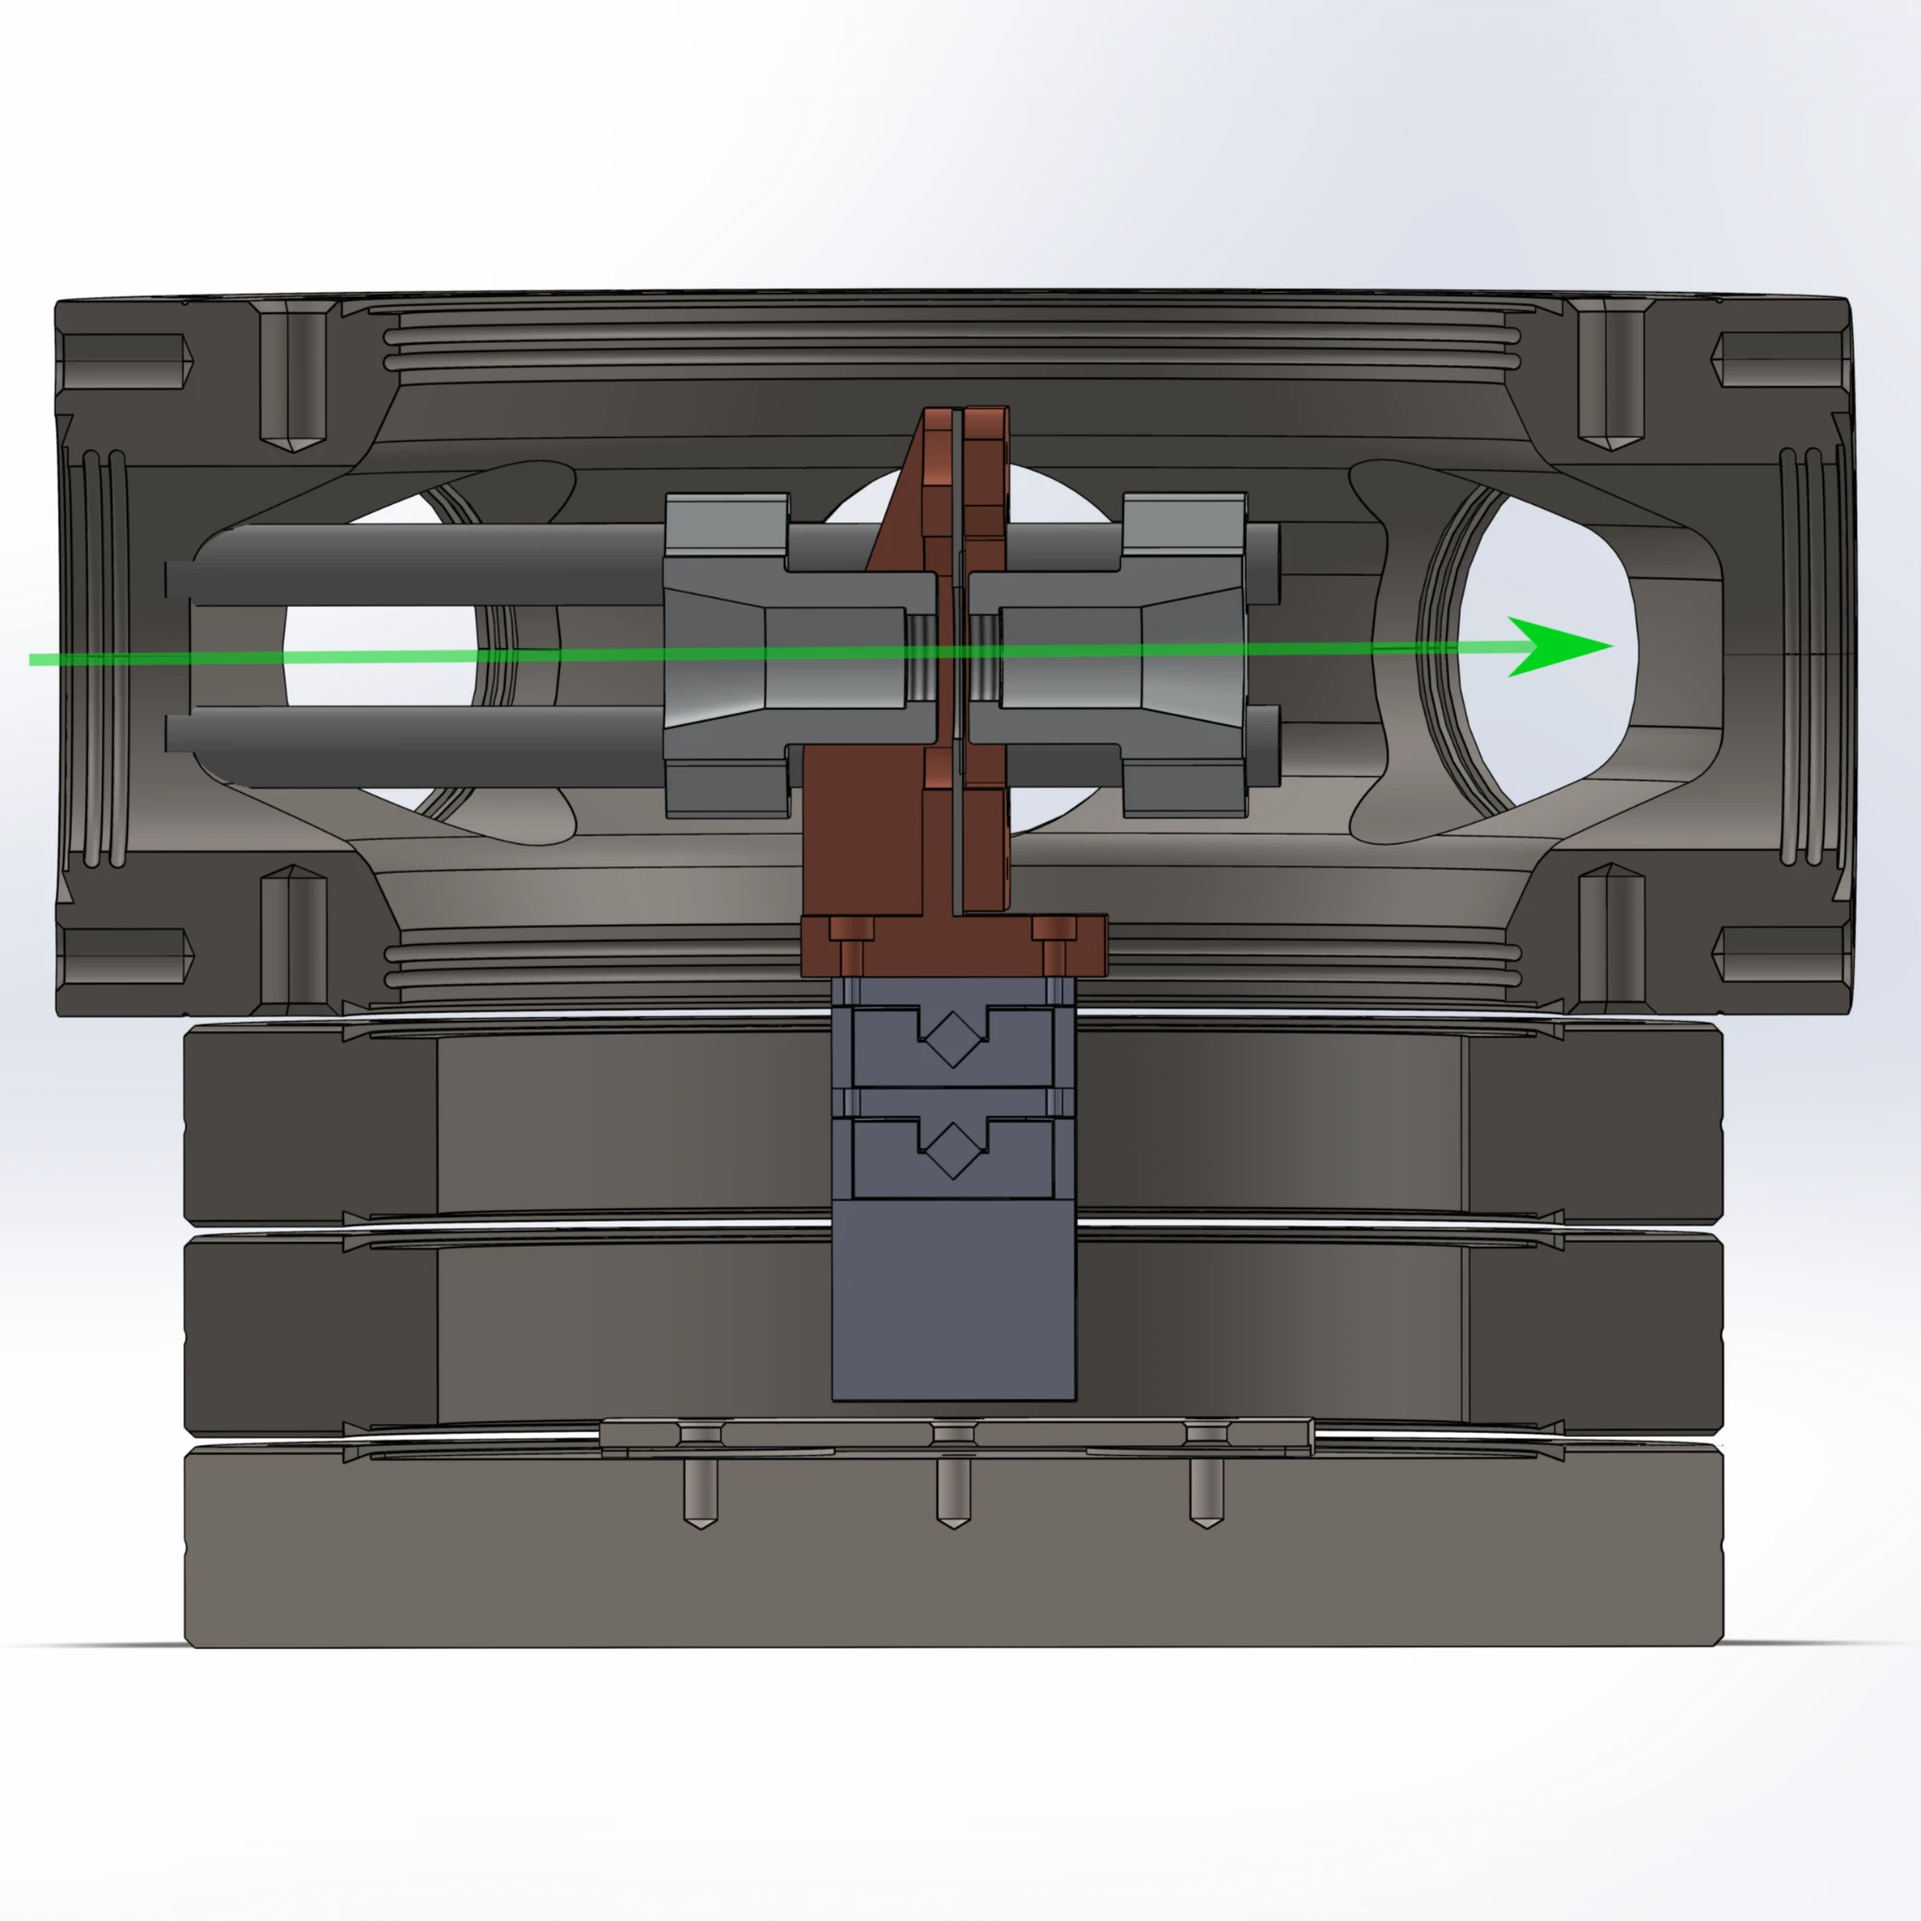
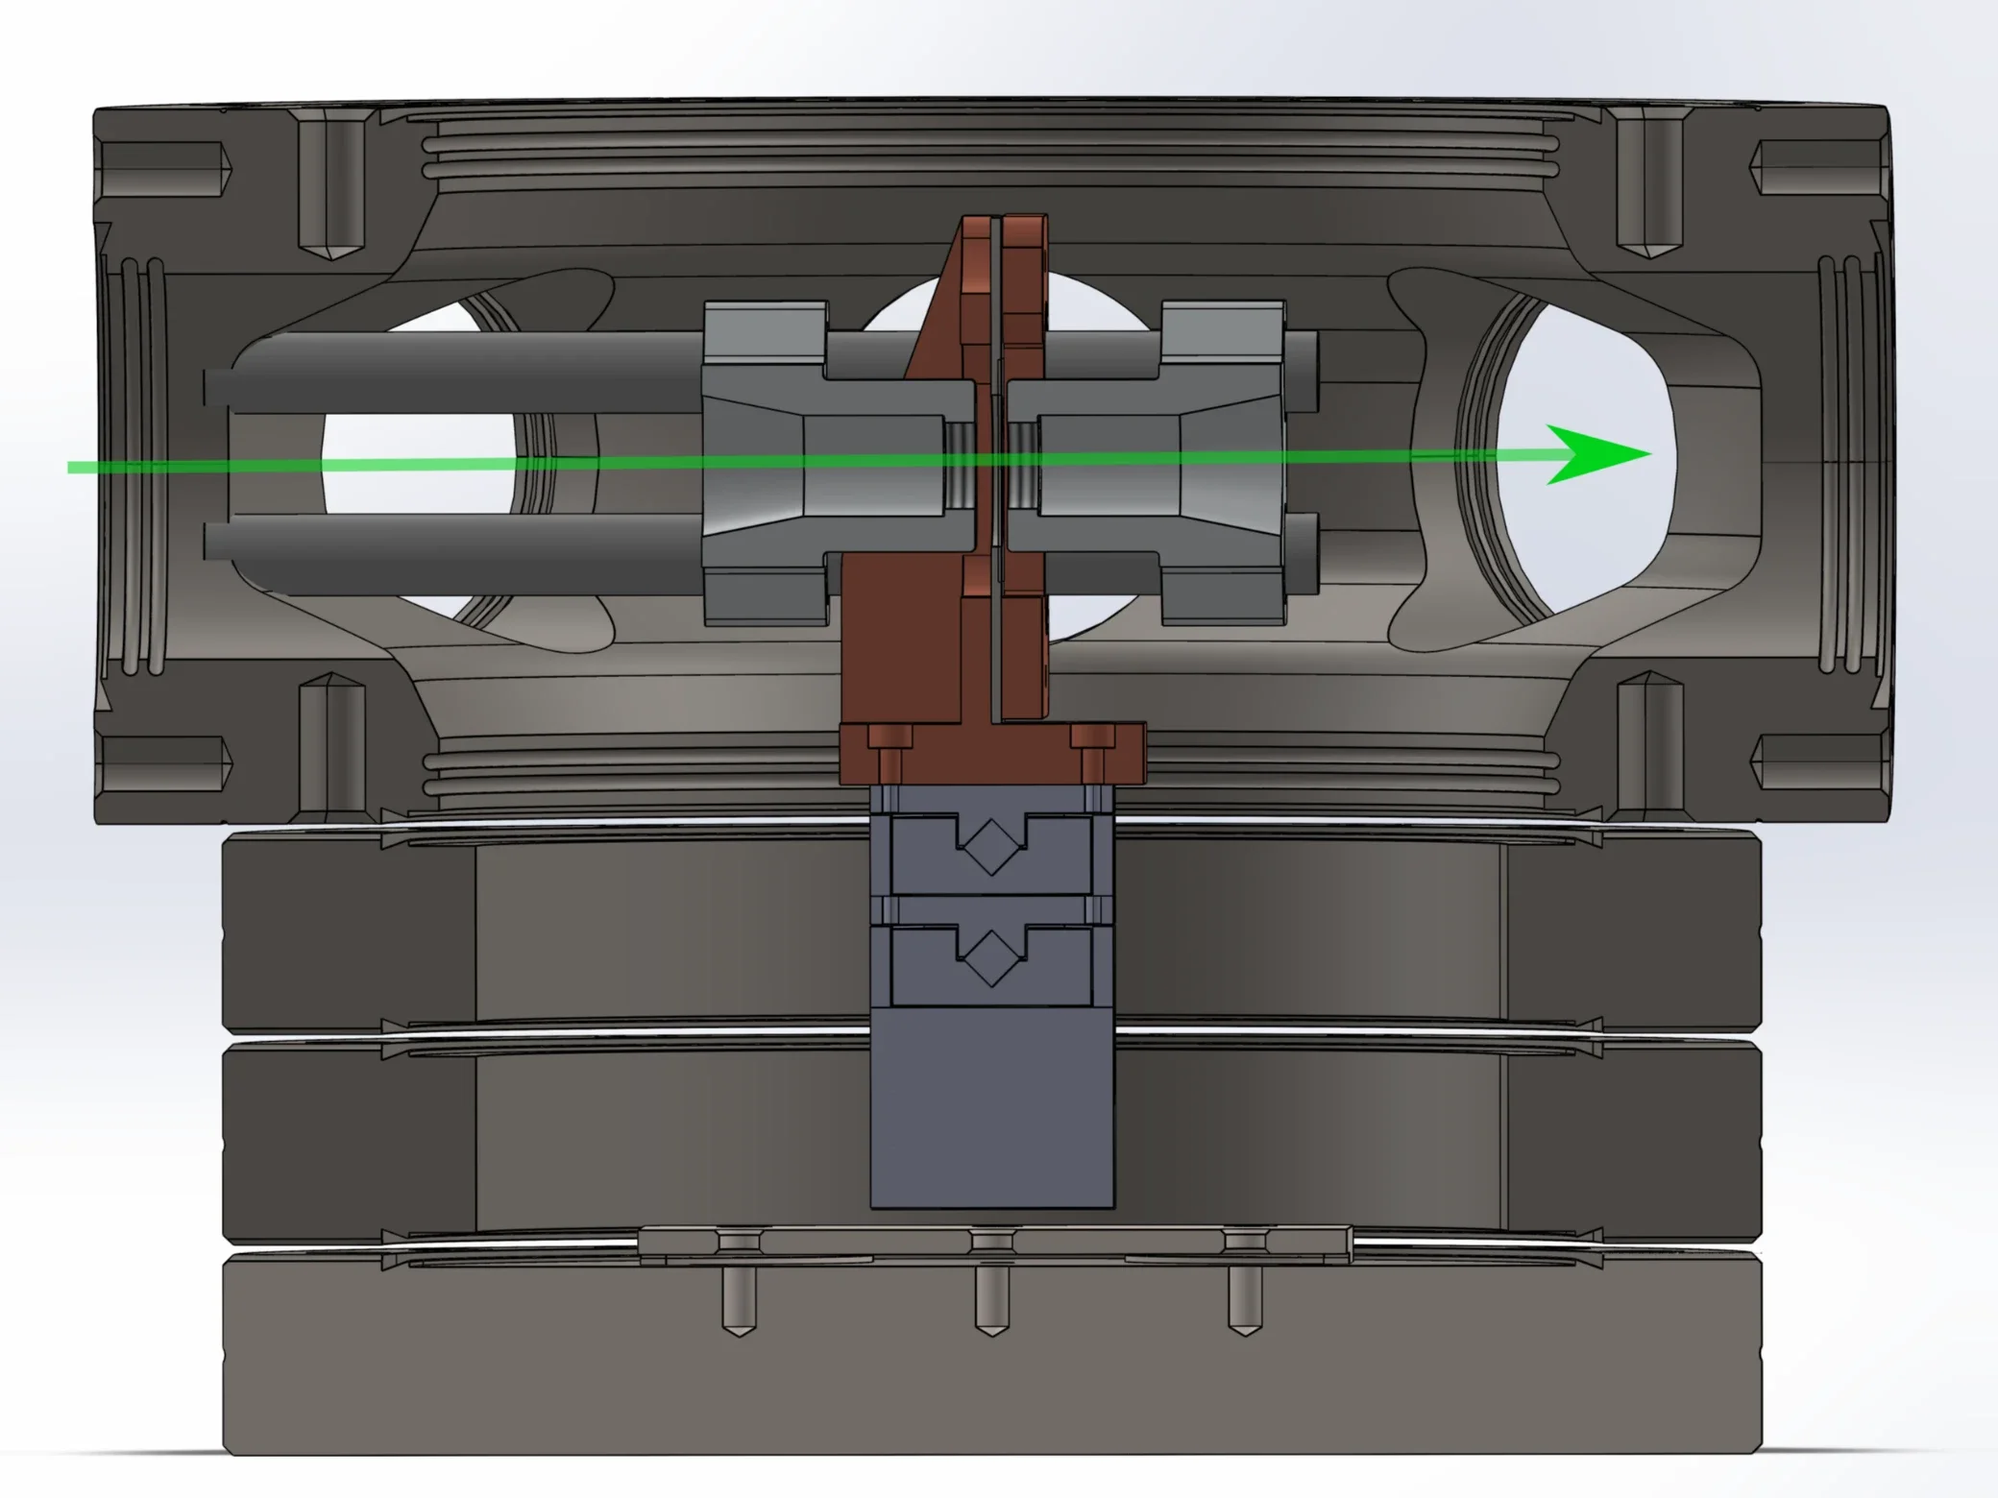
Slider pictures fill the frame: backgrounds extended to 4:3

diff --git a/project-membrane.html b/project-membrane.html
@@ -44,15 +44,15 @@
     <div class="slider project-figure" aria-roledescription="carousel" aria-label="Project pictures">
       <div class="slides">
         <figure class="slide">
-          <img src="assets/projects/membrane/chamber.webp" alt="CAD render of the vacuum chamber with the trapping assembly visible through the top viewport" width="2000" height="1904">
+          <img src="assets/projects/membrane/chamber.webp" alt="CAD render of the vacuum chamber with the trapping assembly visible through the top viewport" width="2539" height="1904">
           <figcaption>Trapping assembly inside the vacuum chamber (SolidWorks model).</figcaption>
         </figure>
         <figure class="slide">
-          <img src="assets/projects/membrane/cross-section.webp" alt="Cross-section of the chamber: the trapping beam, drawn as a green arrow, passes through the sample holder and the focusing optics" width="2000" height="2000">
+          <img src="assets/projects/membrane/cross-section.webp" alt="Cross-section of the chamber: the trapping beam, drawn as a green arrow, passes through the sample holder and the focusing optics" width="2080" height="1560">
           <figcaption>Cross-section of the assembly, with the trapping beam in green.</figcaption>
         </figure>
         <figure class="slide">
-          <img src="assets/projects/membrane/focal-field.png" alt="Four simulated intensity maps of the focus: bright and tight without glass, dimmer and shifted along the optical axis with glass" width="703" height="561">
+          <img src="assets/projects/membrane/focal-field.png" alt="Four simulated intensity maps of the focus: bright and tight without glass, dimmer and shifted along the optical axis with glass" width="748" height="561">
           <figcaption>Simulated focal intensity without (a, b) and with (c, d) a glass substrate in the beam, in the transverse and axial planes. The substrate weakens the focus and shifts it along the optical axis.</figcaption>
         </figure>
       </div>
